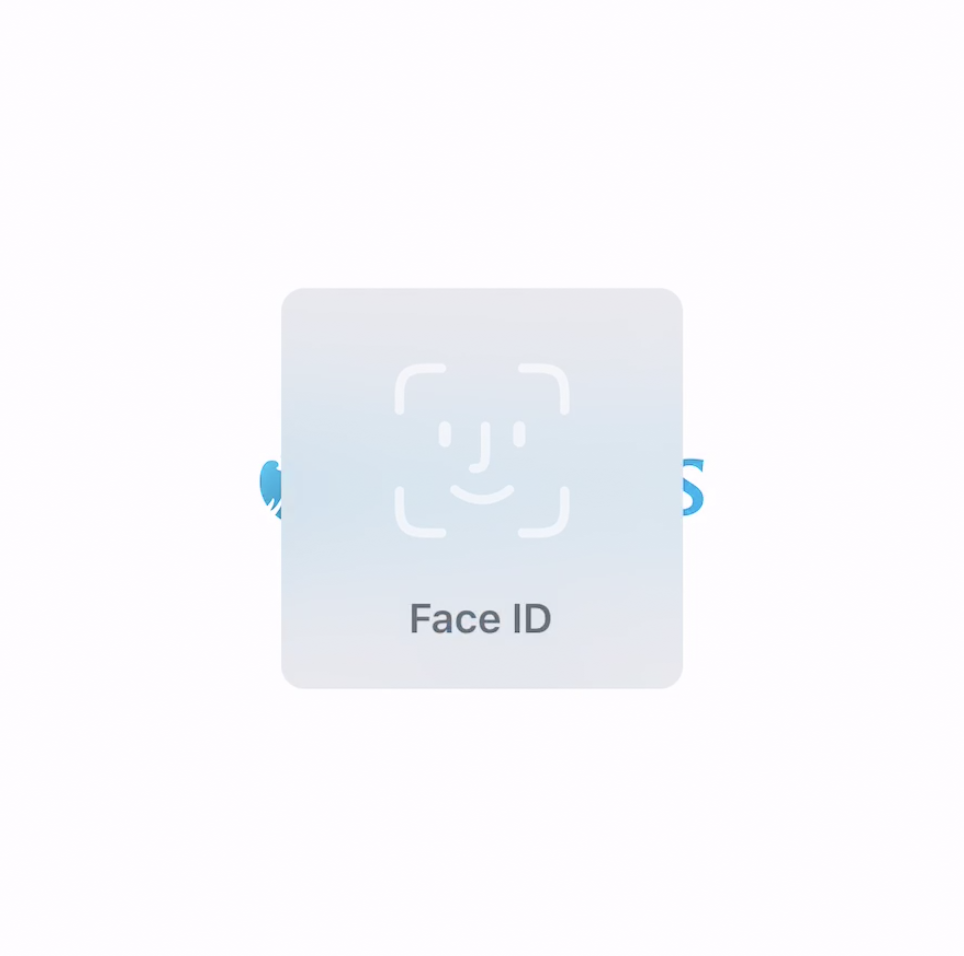
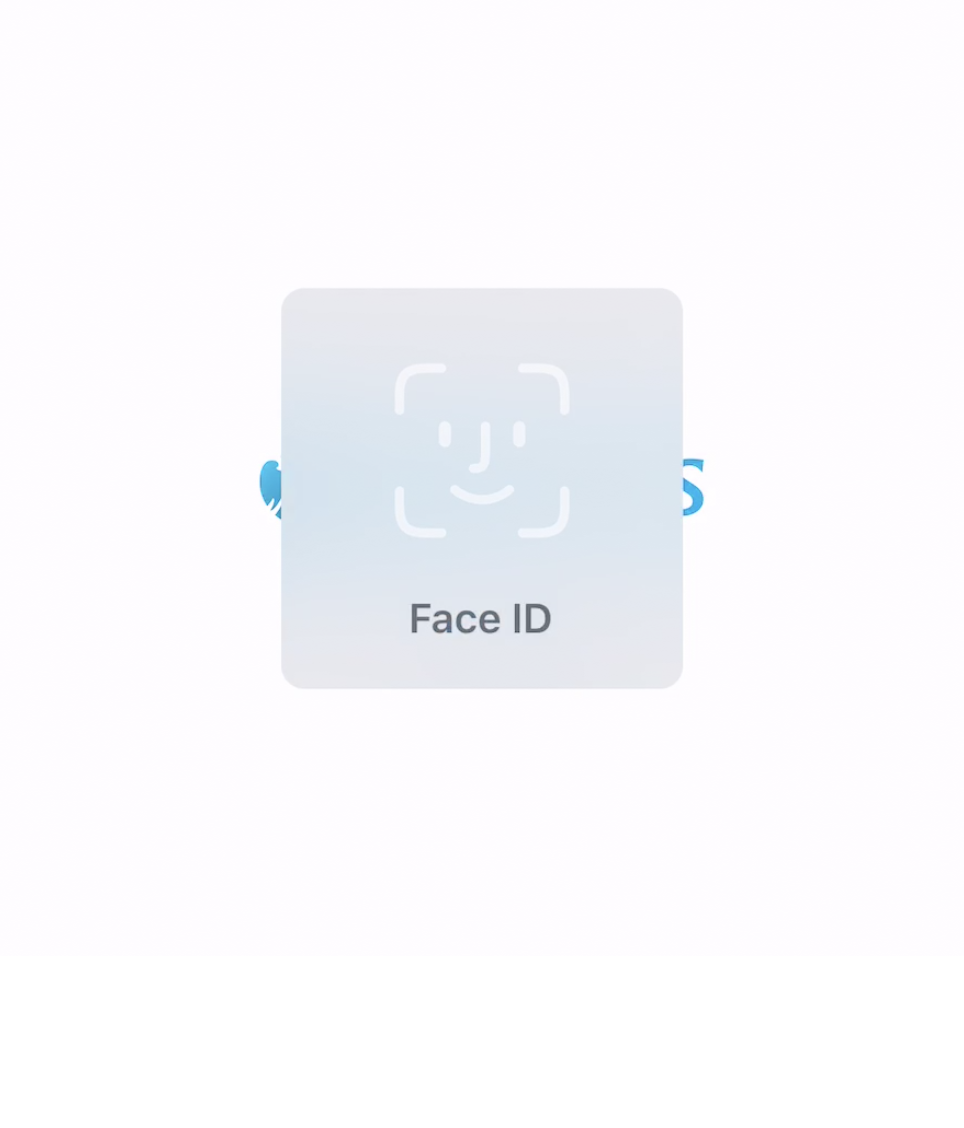
fixes mock

diff --git a/data-api/index.html b/data-api/index.html
@@ -27,7 +27,7 @@
     <div class="video-overlay hide d-flex flex-row justify-content-center align-items-center">
         <!-- <iframe id="data-video" width="800" height="700" src="https://www.youtube.com/embed/LwVkmxwXNEw" frameborder="0"
             allow="accelerometer; autoplay; encrypted-media; gyroscope; picture-in-picture" allowfullscreen></iframe> -->
-            <iframe id="data-video" width="800" height="610" src="https://www.youtube.com/embed/t-tvkRIKd-c" frameborder="0" allow="accelerometer; autoplay; encrypted-media; gyroscope; picture-in-picture" allowfullscreen></iframe>
+            <iframe id="data-video" width="800" height="600" src="https://www.youtube.com/embed/t-tvkRIKd-c" frameborder="0" allow="accelerometer; autoplay; encrypted-media; gyroscope; picture-in-picture" allowfullscreen></iframe>
     </div>
     <section id="data-api">
         <div class="data-api-img">

diff --git a/main.scss b/main.scss
@@ -872,7 +872,7 @@ width: 100%;
 
 .play, .redo {
     position: absolute;
-    top: 20%;
+    top: 30%;
     // left: 44%;
     left: 0;
     right: 0;

diff --git a/main.css b/main.css
@@ -700,7 +700,7 @@ input.form-control {
 
 .play, .redo {
   position: absolute;
-  top: 20%;
+  top: 30%;
   left: 0;
   right: 0;
   margin: auto;
